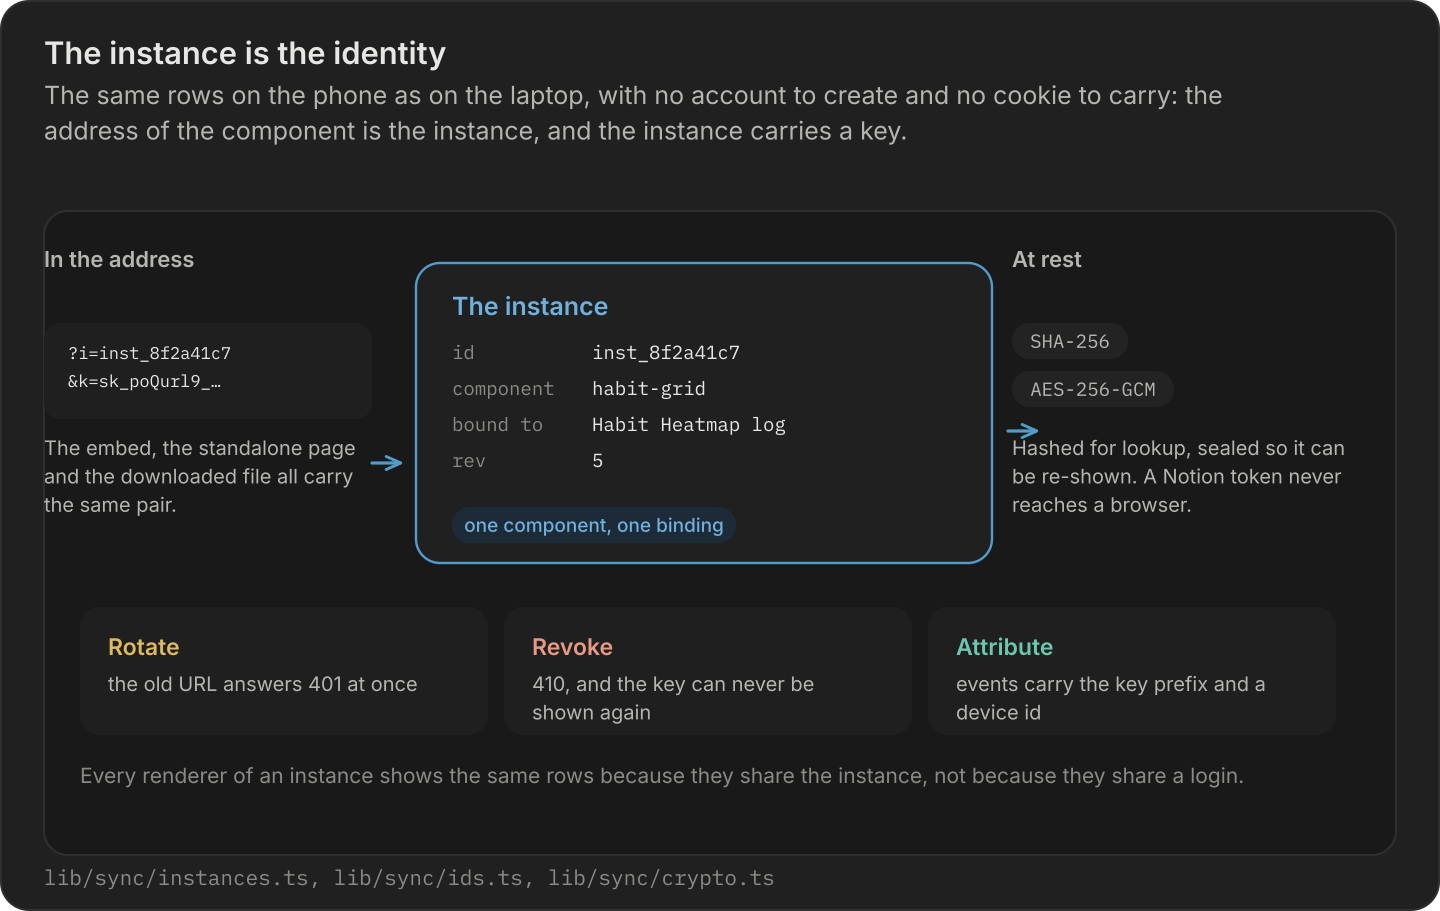
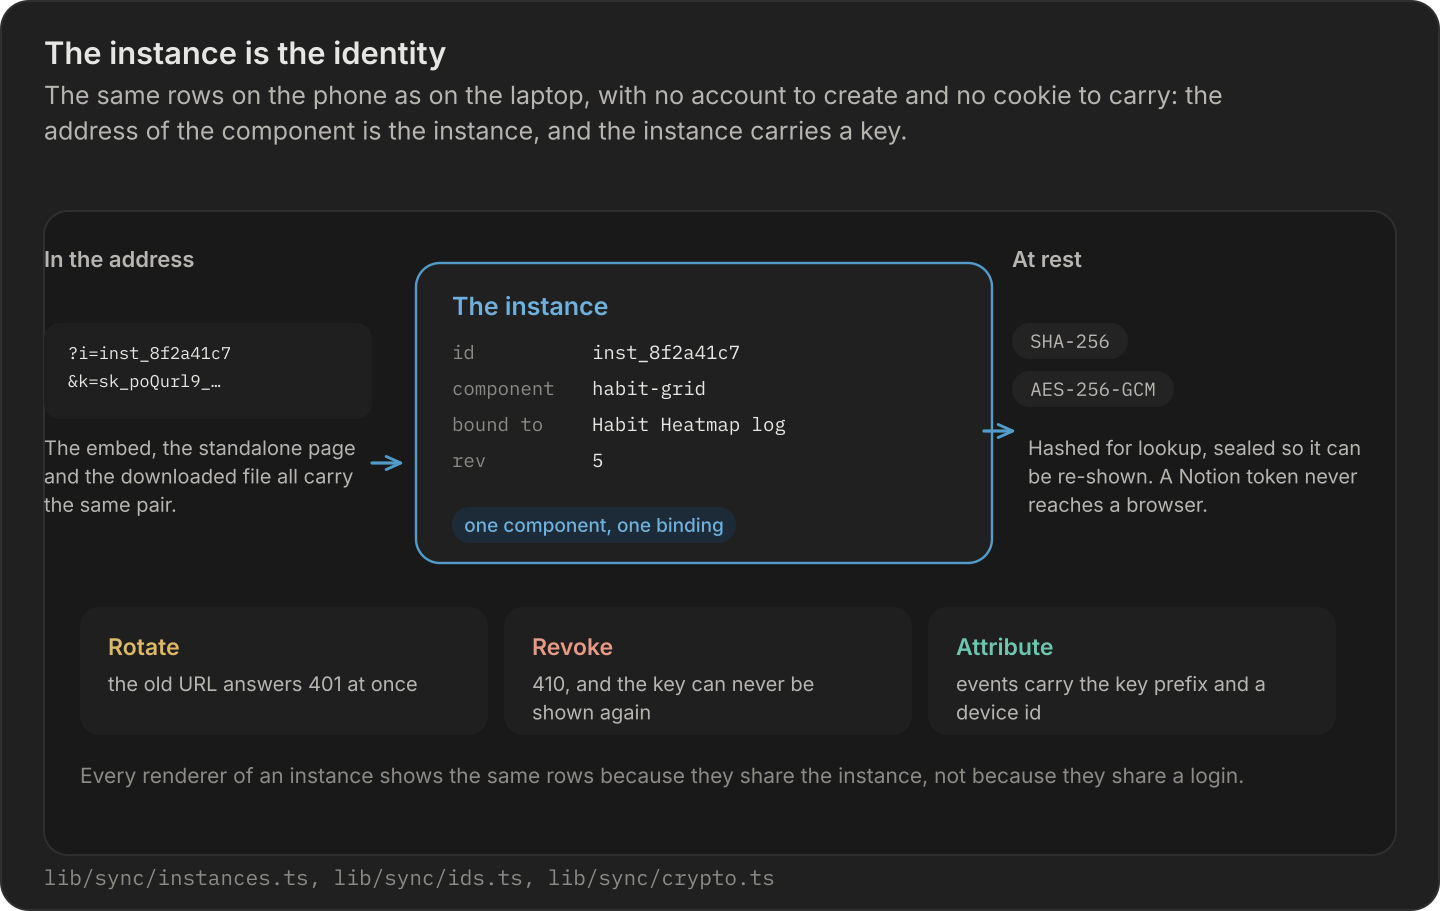
Clear the instance figure's arrow off its own text
F6's right-hand arrow ended inside the first word of the paragraph it
points at. Moved it into the gutter and started the paragraph six units
later, so the arrow reads as a lead-in rather than a collision.

Changed region(s): [[0.6875, 0.461, 0.9375, 0.584]]

diff --git a/lib/diagrams.ts b/lib/diagrams.ts
@@ -929,10 +929,10 @@ const F6 = (() => {
 
   /* right: the key at rest */
   rows += t(506, top + 28, "At rest", { size: 11, weight: 600, fill: C.soft });
-  rows += link({ id: "f6", d: `M504 ${cy + 84}h14`, tone: "ours", width: 1.6 });
+  rows += link({ id: "f6", d: `M492 ${cy + 84}h14`, tone: "ours", width: 1.6 });
   rows += chip(506, cy + 30, "SHA-256", { size: 9.5, fill: C.quietWash, ink: C.quiet, mono: true, h: 18 });
   rows += chip(506, cy + 54, "AES-256-GCM", { size: 9.5, fill: C.quietWash, ink: C.quiet, mono: true, h: 18 });
-  rows += block(506, cy + 96, "Hashed for lookup, sealed so it can be re-shown. A Notion token never reaches a browser.", 192, {
+  rows += block(514, cy + 96, "Hashed for lookup, sealed so it can be re-shown. A Notion token never reaches a browser.", 184, {
     size: 10,
     fill: C.soft,
   }).svg;
